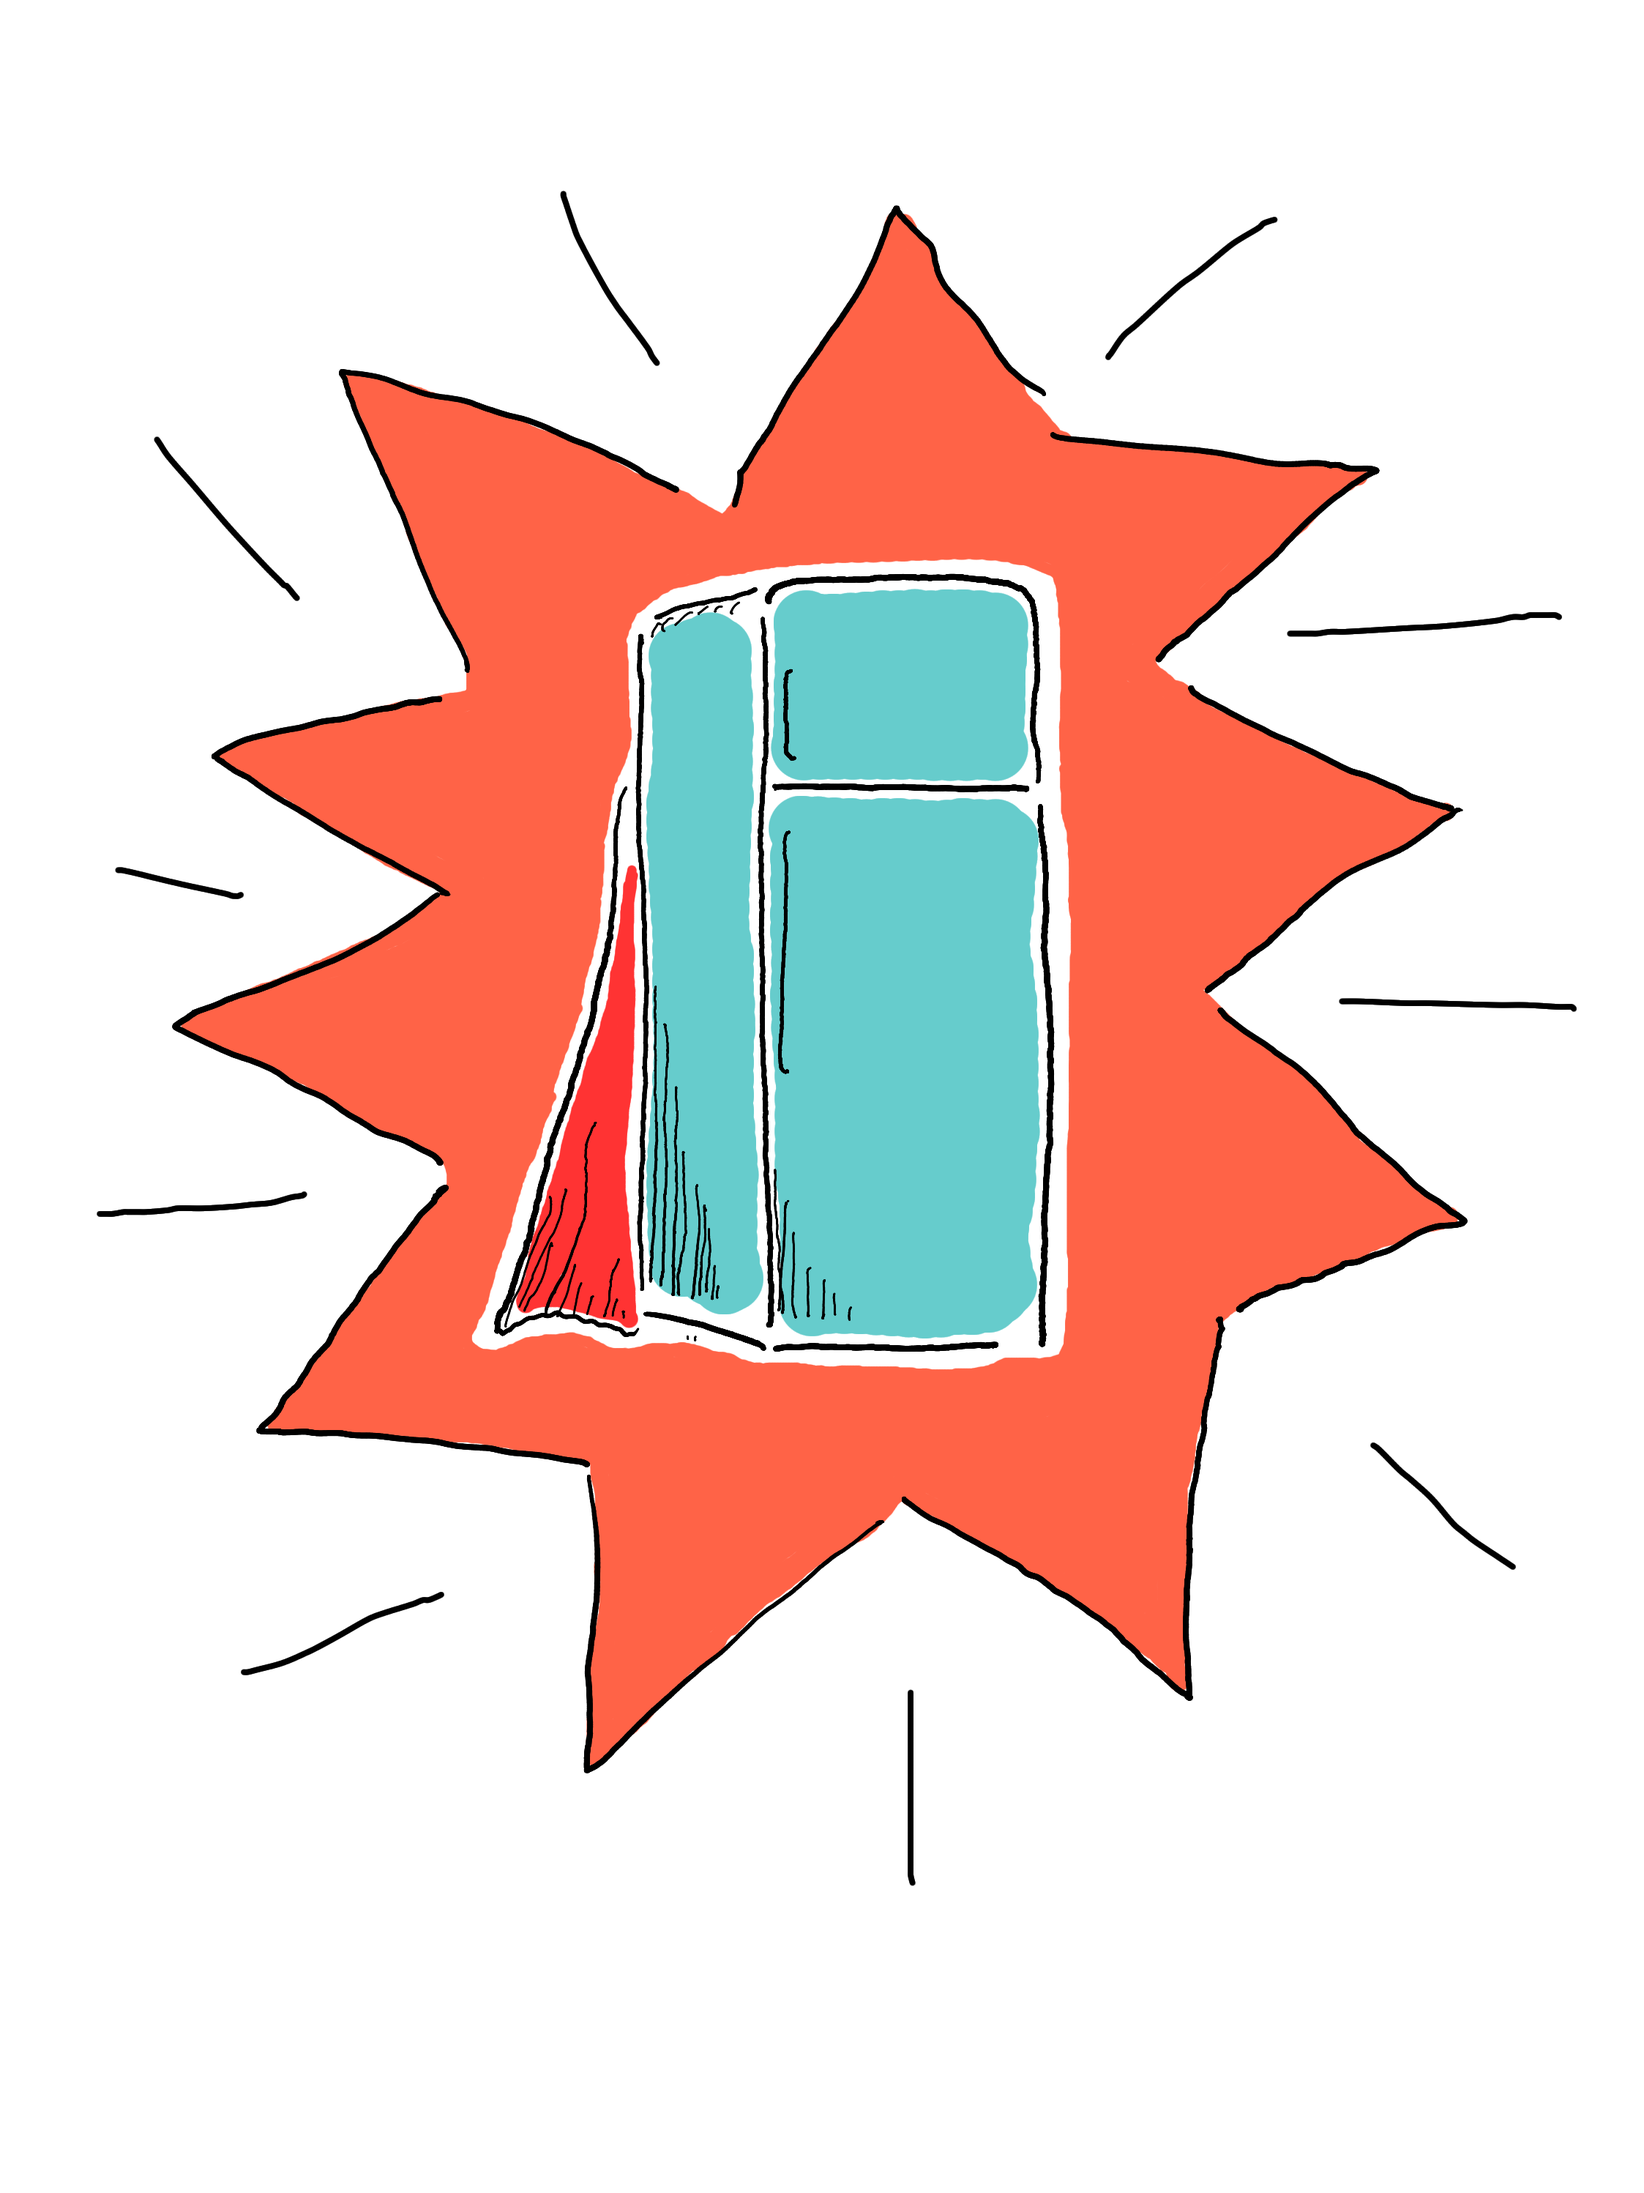
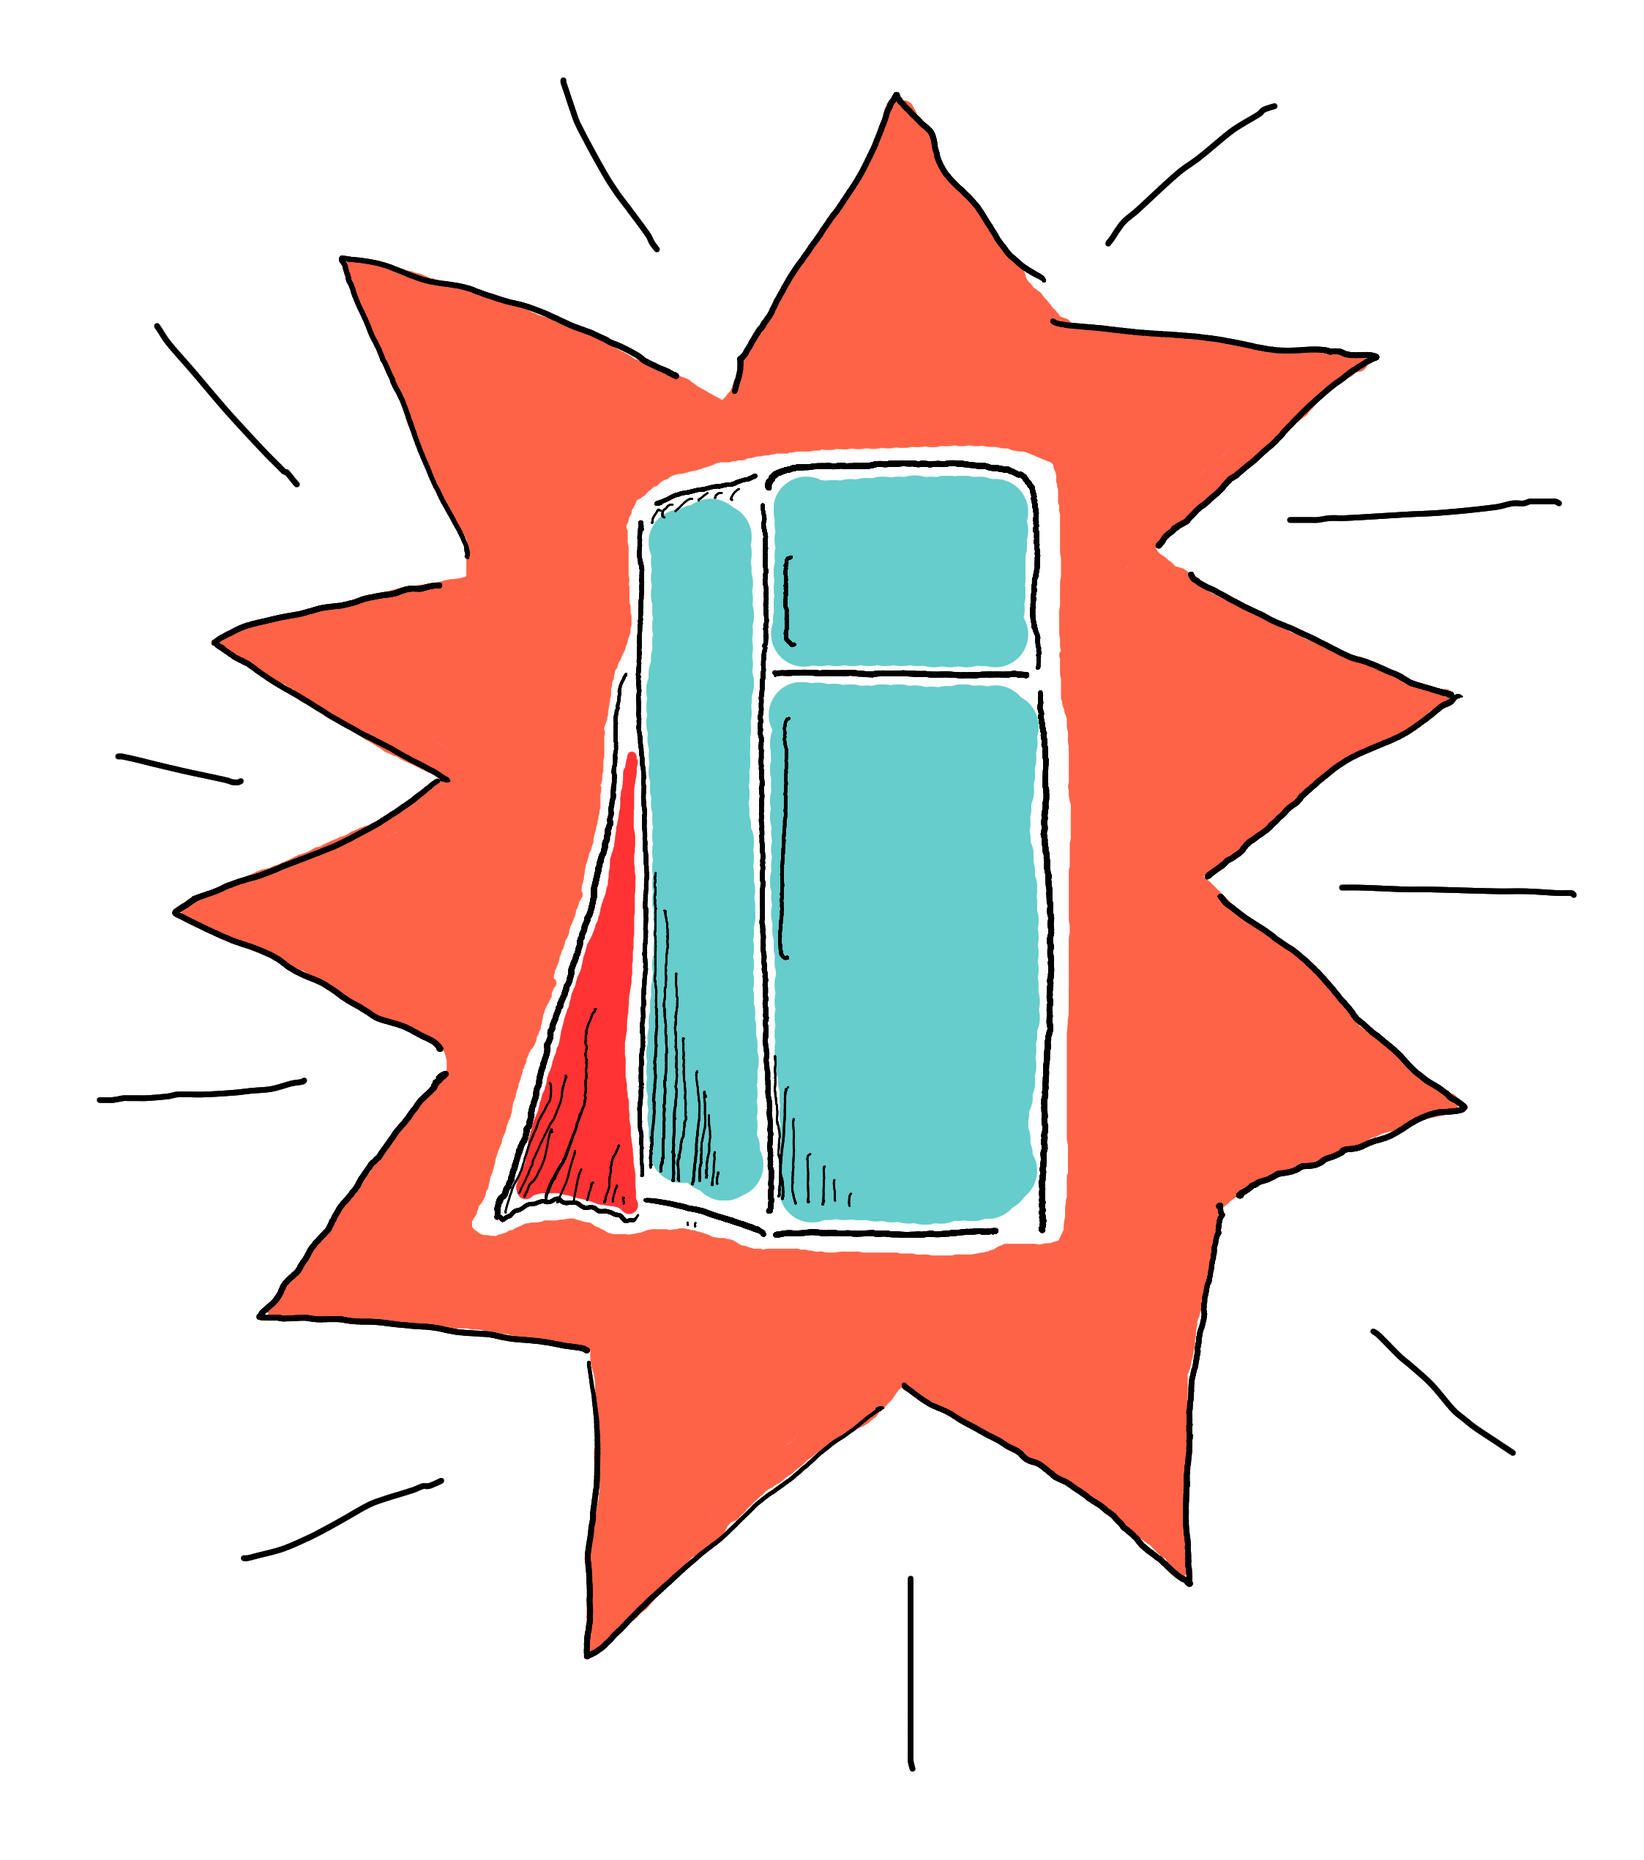
Reactive homepage
Update homepage UI CSS to make reactive dependent on window size.

diff --git a/frontend/src/styles.css b/frontend/src/styles.css
@@ -1,3 +1,9 @@
+/* 
+Standard window width sizes
+Mobile: 568px, 667px, 736px, 812px
+Tablet: 1024px
+Laptop/Desktop: 900px, 1080px, 1440px */
+
 .recipes-list-container {
   display: flex;
 }
@@ -39,31 +45,53 @@
   font-family: 'Chopin-Trial-Medium', sans-serif;
 }
 
+/* Landing page styling */
 .home-container {
   display: flex;
+  flex-direction: column;
   height: 84vh;
-  justify-content: center; /* Aligns items horizontally */
-  align-items: center; /* Aligns items vertically */
+  /* Aligns items horizontally */
+  justify-content: center;
+  /* Aligns items vertically */
+  align-items: center;
 }
-.home-element-container {
-  width: 50%;
-  max-width: 600px;
+
+/* Desktop view */
+@media (min-width: 900px) {
+  .home-container {
+    flex-direction: row;
+    height: 84vh;
+  }
 }
-.image-container {
-  position: relative;
-  width: 50%;
-  height: 100%;
-  max-width: 600px;
-  transform: translate(-20%);
-  z-index: 2;
-}
+
 .fridge-image {
-  position: relative;
-  max-width: 100%;
-  top: 4vh;
+  height: 60%;
+  /* top: 4vh;
   left: 6vw;
-  z-index: 2;
+  z-index: 2; */
 }
+
+/* Mobile formatting */
+@media (max-width: 900px) {
+  .fridge-image {
+    padding-top: 10%;
+  }
+}
+
+@media (max-width: 900px) {
+  .home-element-container {
+    padding-bottom: 10%;
+  }
+}
+
+/* Desktop formatting */
+@media (min-width: 900px) {
+  .fridge-image {
+    height: 80%;
+    padding-right: 5%;
+  }
+}
+
 .welcome-container {
   display: flex;
   flex-direction: column;
@@ -414,19 +442,4 @@
   padding: 10px;
   color:#ff6600;
   border-radius: 4px;
-}
-.image-container {
-  position: relative;
-  width: 50%;
-  height: 100%;
-  max-width: 600px;
-  transform: translate(0%);
-  margin-bottom: -15%;
-}
-.fridge-image {
-  position: relative;
-  max-width: 100%;
-  top: -5vh;
-  left: 6vw;
-  z-index: 2;
 }

diff --git a/frontend/src/pages/Home.js b/frontend/src/pages/Home.js
@@ -52,9 +52,7 @@ export default function Home() {
     <div>
       <div style={{ width: '100vw', height: '8vh', backgroundColor: 'var(--primary-color)', borderBottomColor: 'black', borderBottomWidth: '2px', borderBottomStyle: 'solid' }}></div>
       <div className='home-container'>
-        <div className='image-container'>
-          <img className='fridge-image' src={FridgeImage} alt="Fridge" />
-        </div>
+        <img className='fridge-image' src={FridgeImage} alt="Fridge" />
         <div className='home-element-container'>
           {componentToRender}
         </div>
